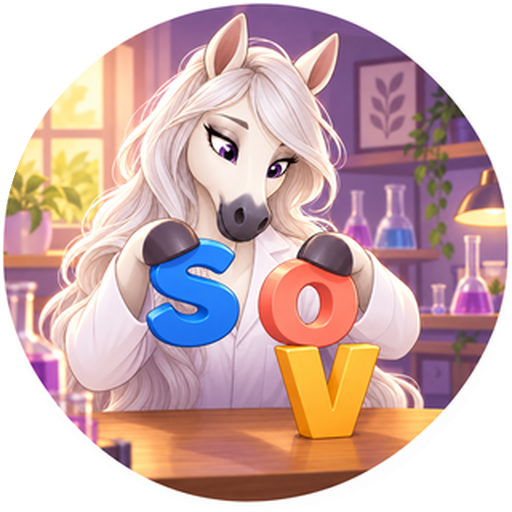
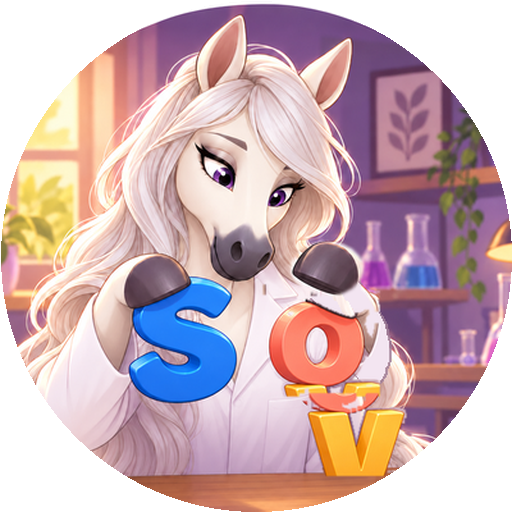
Smooth Celeste letter exchange and add blink [fast-deploy] [sentence-release]

diff --git a/sentence-structure.html b/sentence-structure.html
@@ -21,7 +21,7 @@
   <link rel="stylesheet" href="/pwa-ui.css">
   <script defer src="/pwa-register.js"></script>
   <link rel="stylesheet" href="sentence-structure.css?v=20261022-horse-login2">
-  <link rel="stylesheet" href="sentence-celeste/celeste-header.css?v=20261022-2">
+  <link rel="stylesheet" href="sentence-celeste/celeste-header.css?v=20261022-3">
   <link rel="stylesheet" href="common-expression-map.css?v=20260915-noirceleste1">
   <link rel="stylesheet" href="sentence-structure-coast.css?v=20260912-autumn1">
   <link rel="stylesheet" href="shared-system-nav.css?v=20260924-wallet1">
@@ -53,7 +53,7 @@
         </button>
       </div>
       <button class="celeste-header-mascot" type="button" data-celeste-lab-toggle aria-label="暫停 Celeste 句子結構動畫" aria-pressed="true">
-        <img src="sentence-celeste/celeste-sentence-lab.gif?v=20261022-2" width="64" height="64" alt="Celeste 穿着實驗袍，低頭用立體 S、O、V 字母實驗句子結構">
+        <img src="sentence-celeste/celeste-sentence-lab.gif?v=20261022-3" width="68" height="68" alt="Celeste 穿着實驗袍，低頭用立體 S、O、V 字母實驗句子結構，並眨眼思考">
       </button>
       <div class="header-actions edmund-system-header__actions">
         <span class="connection-pill" data-connection-status data-state="checking">正在連接</span>
@@ -343,7 +343,7 @@
   <script src="sentence-structure-config.js"></script>
   <script src="shared-system-nav.js?v=20260924-wallet1"></script>
   <script src="shared-answer-comparison.js?v=20260926-safari1"></script>
-  <script defer src="sentence-celeste/celeste-header.js?v=20261022-2"></script>
+  <script defer src="sentence-celeste/celeste-header.js?v=20261022-3"></script>
   <script defer src="speaking-system-config.js?v=20260829-1"></script>
 
   <script defer src="shared-speaking-practice.js?v=20260829-2"></script>

diff --git a/sentence-celeste/celeste-header.js b/sentence-celeste/celeste-header.js
@@ -2,9 +2,9 @@
   const button = document.querySelector('[data-celeste-lab-toggle]');
   if (!button) return;
   const image = button.querySelector('img');
-  const gif = 'sentence-celeste/celeste-sentence-lab.gif?v=20261022-2';
+  const gif = 'sentence-celeste/celeste-sentence-lab.gif?v=20261022-3';
   const stills = Array.from({ length: 5 }, (_, index) =>
-    `sentence-celeste/stills/celeste-${String(index + 1).padStart(2, '0')}.png?v=20261022-2`
+    `sentence-celeste/stills/celeste-${String(index + 1).padStart(2, '0')}.png?v=20261022-3`
   );
   const storageKey = 'edmund-sentence-celeste-playing';
   let playing = !window.matchMedia('(prefers-reduced-motion: reduce)').matches;

diff --git a/sentence-celeste/celeste-header.css b/sentence-celeste/celeste-header.css
@@ -1,8 +1,8 @@
 .celeste-header-mascot {
   display: block;
-  flex: 0 0 64px;
-  width: 64px;
-  height: 64px;
+  flex: 0 0 68px;
+  width: 68px;
+  height: 68px;
   padding: 0;
   border: 0;
   border-radius: 50%;
@@ -25,8 +25,8 @@
 
 @media (max-width: 720px) {
   .celeste-header-mascot {
-    flex-basis: 52px;
-    width: 52px;
-    height: 52px;
+    flex-basis: 56px;
+    width: 56px;
+    height: 56px;
   }
 }

diff --git a/tools/mascot-art/sentence-structure/build_celeste_lab.py b/tools/mascot-art/sentence-structure/build_celeste_lab.py
@@ -1,112 +1,211 @@
 #!/usr/bin/env python3
-"""Build Celeste's fixed-camera S–O–V laboratory header loop."""
-
+"""Render Celeste from one fixed plate, rigid letters, a moving hoof, and blink keys."""
 from __future__ import annotations
 
-import shutil
-import subprocess
-import tempfile
 from pathlib import Path
-
+import numpy as np
 from PIL import Image, ImageDraw, ImageFilter
 
-
 ROOT = Path(__file__).resolve().parents[3]
-SOURCE = ROOT / "assets" / "mascots" / "celeste-sentence-lab"
+SOURCE = ROOT / "assets/mascots/celeste-sentence-lab"
 PUBLIC = ROOT / "sentence-celeste"
 STILLS = PUBLIC / "stills"
-WORK = 320
-DELIVERY = 160
+SIZE = 400
+FPS = 25
+COUNT = 175
+CROP = (87, 0, 1167, 1080)
 
 
-def load_pose(name: str, plate: Image.Image, action_mask: Image.Image) -> Image.Image:
-    pose = Image.open(SOURCE / f"celeste-{name}.png").convert("RGB")
-    pose = pose.resize((WORK, WORK), Image.Resampling.LANCZOS)
-    return Image.composite(pose, plate, action_mask)
+def read(name):
+    return Image.open(SOURCE / f"celeste-{name}.png").convert("RGB").crop(CROP).resize(
+        (SIZE, SIZE), Image.Resampling.LANCZOS)
 
 
-def circular_alpha(image: Image.Image) -> Image.Image:
-    alpha = Image.new("L", image.size, 0)
-    draw = ImageDraw.Draw(alpha)
-    edge = image.width - 1
-    draw.ellipse((1, 1, edge, edge), fill=255)
-    image = image.convert("RGBA")
+def ease(a, b, t):
+    x = max(0.0, min(1.0, (t-a)/(b-a)))
+    return x*x*(3-2*x)
+
+
+def tween(a, b, weight):
+    return (a[0]+(b[0]-a[0])*weight, a[1]+(b[1]-a[1])*weight)
+
+
+def extract_letter(image, kind):
+    pixels = np.asarray(image, dtype=np.int16)
+    r, g, b = pixels[:,:,0], pixels[:,:,1], pixels[:,:,2]
+    yy, xx = np.mgrid[:SIZE,:SIZE]
+    if kind == "o":
+        region = (xx>=195)&(xx<=305)&(yy>=220)&(yy<=322)
+        colored = (r>130)&(r>g*1.30)&(r>b*1.26)&(g>55)
+    else:
+        region = (xx>=205)&(xx<=325)&(yy>=297)&(yy<=375)
+        colored = (r>180)&(g>125)&(r>g*1.13)&(b<145)
+    alpha = Image.fromarray(np.uint8(region & colored)*255, "L")
+    alpha = alpha.filter(ImageFilter.MaxFilter(5)).filter(ImageFilter.GaussianBlur(.7))
+    box = alpha.getbbox()
+    if not box:
+        raise RuntimeError(f"Missing {kind.upper()} cutout")
+    x0,y0,x1,y1 = box
+    box = (max(0,x0-2),max(0,y0-2),min(SIZE,x1+2),min(SIZE,y1+2))
+    sprite = image.convert("RGBA").crop(box)
+    sprite.putalpha(alpha.crop(box))
+    scale = .82 if kind=="o" else .78
+    return sprite.resize((round(sprite.width*scale),round(sprite.height*scale)),
+                         Image.Resampling.LANCZOS)
+
+
+def extract_hoof(image):
+    box = (232,209,295,259)
+    sprite = image.convert("RGBA").crop(box)
+    alpha = Image.new("L", sprite.size, 0)
+    ImageDraw.Draw(alpha).ellipse((3,2,59,43), fill=255)
+    sprite.putalpha(alpha.filter(ImageFilter.GaussianBlur(1.2)))
+    return sprite
+
+
+def blink_weight(t):
+    result = 0.0
+    for center in (.62,3.78,5.82):
+        delta = abs(t-center)
+        if delta < .16:
+            result = max(result,1-delta/.16)
+    return result
+
+
+def paste_center(image, sprite, center):
+    image.alpha_composite(sprite,(round(center[0]-sprite.width/2),
+                                  round(center[1]-sprite.height/2)))
+
+
+def arm_layer(center):
+    hx,hy = center
+    shoulder = (277.0,291.0)
+    control1 = (301.0,277.0)
+    control2 = (hx+16.0,hy+24.0)
+    points = []
+    for index in range(17):
+        t=index/16
+        u=1-t
+        x=u**3*shoulder[0]+3*u*u*t*control1[0]+3*u*t*t*control2[0]+t**3*hx
+        y=u**3*shoulder[1]+3*u*u*t*control1[1]+3*u*t*t*control2[1]+t**3*(hy+8)
+        points.append((round(x),round(y)))
+    layer=Image.new("RGBA",(SIZE,SIZE),(0,0,0,0))
+    draw=ImageDraw.Draw(layer)
+    draw.line(points, fill=(162,129,154,210),width=40,joint="curve")
+    draw.line(points, fill=(243,229,241,255),width=36,joint="curve")
+    draw.line([(x-5,y-4) for x,y in points[2:-2]],
+              fill=(255,250,252,172),width=7,joint="curve")
+    return layer
+
+
+def render(t, plate, blink, eye_mask, hoof, o_sprite, v_sprite):
+    image=plate.convert("RGBA")
+    closure=blink_weight(t)
+    if closure:
+        mask=eye_mask.point(lambda value:round(value*closure))
+        image=Image.composite(blink.convert("RGBA"),image,mask)
+    o_held,o_table=(251.0,266.0),(217.0,344.0)
+    v_table,v_held=(282.0,339.0),(282.0,258.0)
+    if t<2.15:
+        op=tween(o_held,o_table,ease(.95,2.15,t))
+    elif t<5.42:
+        op=o_table
+    else:
+        op=tween(o_table,o_held,ease(5.42,6.48,t))
+    if t<2.55:
+        vp=v_table
+    elif t<3.55:
+        vp=tween(v_table,v_held,ease(2.55,3.55,t))
+    elif t<4.18:
+        vp=v_held
+    else:
+        vp=tween(v_held,v_table,ease(4.18,5.12,t))
+    o_hoof=(op[0]+5,op[1]-o_sprite.height/2-7)
+    v_hoof=(vp[0]+5,vp[1]-v_sprite.height/2-7)
+    if t<2.15:
+        hp=o_hoof
+    elif t<2.55:
+        hp=tween(o_hoof,v_hoof,ease(2.15,2.55,t))
+    elif t<5.12:
+        hp=v_hoof
+    elif t<5.42:
+        hp=tween(v_hoof,o_hoof,ease(5.12,5.42,t))
+    else:
+        hp=o_hoof
+    shadows=Image.new("RGBA",(SIZE,SIZE),(0,0,0,0))
+    d=ImageDraw.Draw(shadows)
+    for position,amount in (
+        (op,ease(1.65,2.15,t)*(1-ease(5.42,5.95,t))),
+        (vp,(1-ease(2.55,3.05,t))+ease(4.6,5.12,t))
+    ):
+        if amount>0:
+            x=position[0]
+            d.ellipse((x-31,369,x+31,377),
+                      fill=(70,37,63,round(45*min(amount,1))))
+    image.alpha_composite(shadows.filter(ImageFilter.GaussianBlur(2.5)))
+    # One independent O and one independent V: no shape morph or duplicates.
+    image.alpha_composite(arm_layer(hp))
+    paste_center(image,o_sprite,op)
+    paste_center(image,v_sprite,vp)
+    paste_center(image,hoof,hp)
+    return image
+
+
+def circle(image):
+    alpha=Image.new("L",image.size,0)
+    ImageDraw.Draw(alpha).ellipse((1,1,image.width-1,image.height-1),fill=255)
+    image=image.convert("RGBA")
     image.putalpha(alpha)
     return image
 
 
-def main() -> None:
-    PUBLIC.mkdir(parents=True, exist_ok=True)
-    STILLS.mkdir(parents=True, exist_ok=True)
-    base = Image.open(SOURCE / "celeste-holding-o.png").convert("RGB")
-    base = base.resize((WORK, WORK), Image.Resampling.LANCZOS)
-
-    # Freeze the desk, study, face, goggles and S-holding hoof. Only the right
-    # foreleg and its two letter tiles may change between generated poses.
-    action_mask = Image.new("L", (WORK, WORK), 0)
-    ImageDraw.Draw(action_mask).polygon(
-        [(160, 151), (259, 150), (319, 194), (319, 319),
-         (121, 319), (132, 250)], fill=255
-    )
-    action_mask = action_mask.filter(ImageFilter.GaussianBlur(7))
-    names = ("holding-o", "lowering-o", "placing-o", "lifting-v", "holding-v")
-    poses = [base] + [load_pose(name, base, action_mask) for name in names[1:]]
-
-    for index, pose in enumerate(poses, 1):
-        circular_alpha(pose.resize((256, 256), Image.Resampling.LANCZOS)).save(
-            STILLS / f"celeste-{index:02d}.png", optimize=True
-        )
-    circular_alpha(poses[0].resize((512, 512), Image.Resampling.LANCZOS)).save(
-        PUBLIC / "celeste-sentence-lab-poster.png", optimize=True
-    )
-
-    # Deliberate holds make the educational exchange readable: O goes down,
-    # the hoof contacts V, V rises, then the gesture reverses for a clean loop.
-    sequence = ([0] * 7 + [1] * 2 + [2] * 3 + [3] * 2 + [4] * 8
-                + [3] * 2 + [2] * 3 + [1] * 2 + [0] * 7)
-    with tempfile.TemporaryDirectory(prefix="celeste-lab-") as temporary:
-        temp = Path(temporary)
-        inputs = temp / "inputs"
-        output = temp / "frames"
-        inputs.mkdir()
-        output.mkdir()
-        for index, pose_id in enumerate(sequence):
-            poses[pose_id].save(inputs / f"{index:04d}.png")
-        command = [
-            shutil.which("ffmpeg") or "ffmpeg", "-hide_banner", "-loglevel", "error",
-            "-framerate", "8", "-i", str(inputs / "%04d.png"),
-            "-vf", "minterpolate=fps=25:mi_mode=mci:mc_mode=aobmc:me_mode=bidir:vsbmc=1",
-            str(output / "%04d.png"),
-        ]
-        subprocess.run(command, check=True)
-        frame_paths = sorted(output.glob("*.png"))
-        frames = [circular_alpha(Image.open(path).convert("RGB").resize(
-            (DELIVERY, DELIVERY), Image.Resampling.LANCZOS)) for path in frame_paths]
-
-    # One shared palette avoids color shimmer while the background remains fixed.
-    palette = frames[0].convert("RGB").quantize(colors=255, method=Image.Quantize.MEDIANCUT)
-    colors = [255, 0, 255] + palette.getpalette()[:765]
-    colors += [0] * (768 - len(colors))
-    ready = []
+def gif_frames(frames):
+    palette=frames[0].convert("RGB").quantize(colors=255,method=Image.Quantize.MEDIANCUT)
+    colors=[255,0,255]+palette.getpalette()[:765]
+    colors += [0]*(768-len(colors))
+    result=[]
     for frame in frames:
-        indexed = frame.convert("RGB").quantize(palette=palette, dither=Image.Dither.NONE)
-        source = indexed.load()
-        alpha = frame.getchannel("A").load()
-        result = Image.new("P", frame.size, 0)
-        result.putpalette(colors)
-        target = result.load()
-        for y in range(frame.height):
-            for x in range(frame.width):
-                target[x, y] = source[x, y] + 1 if alpha[x, y] >= 128 else 0
-        result.info["transparency"] = 0
-        ready.append(result)
-    ready[0].save(
-        PUBLIC / "celeste-sentence-lab.gif", save_all=True,
-        append_images=ready[1:], duration=40, loop=0,
-        transparency=0, disposal=2, optimize=False,
-    )
-    print(f"Rendered {len(ready)} frames, five stills and poster")
+        indexes=np.asarray(frame.convert("RGB").quantize(
+            palette=palette,dither=Image.Dither.NONE),dtype=np.uint16)
+        alpha=np.asarray(frame.getchannel("A"))
+        values=np.where(alpha>=128,indexes+1,0).astype(np.uint8)
+        item=Image.fromarray(values,"P")
+        item.putpalette(colors)
+        item.info["transparency"]=0
+        result.append(item)
+    return result
 
 
-if __name__ == "__main__":
+def main():
+    PUBLIC.mkdir(parents=True,exist_ok=True)
+    STILLS.mkdir(parents=True,exist_ok=True)
+    plate=read("clean-plate")
+    blink=read("blink")
+    master=read("holding-o")
+    empty=read("empty-hoof")
+    eye_mask=Image.new("L",(SIZE,SIZE),0)
+    draw=ImageDraw.Draw(eye_mask)
+    draw.ellipse((142,99,207,148),fill=255)
+    draw.ellipse((199,113,247,166),fill=255)
+    eye_mask=eye_mask.filter(ImageFilter.GaussianBlur(2))
+    hoof=extract_hoof(empty)
+    letter_o=extract_letter(master,"o")
+    letter_v=extract_letter(master,"v")
+    frames=[render(n/FPS,plate,blink,eye_mask,hoof,letter_o,letter_v)
+            for n in range(COUNT)]
+    for number,index in enumerate((10,42,57,76,97),1):
+        circle(frames[index].resize((256,256),Image.Resampling.LANCZOS)).save(
+            STILLS/f"celeste-{number:02d}.png",optimize=True)
+    circle(frames[10].resize((512,512),Image.Resampling.LANCZOS)).save(
+        PUBLIC/"celeste-sentence-lab-poster.png",optimize=True)
+    small=[circle(frame.resize((160,160),Image.Resampling.LANCZOS))
+           for frame in frames]
+    gif=gif_frames(small)
+    gif[0].save(PUBLIC/"celeste-sentence-lab.gif",save_all=True,
+                append_images=gif[1:],duration=40,loop=0,
+                transparency=0,disposal=2,optimize=False)
+    print(f"Rendered {len(gif)} rigid-object frames with three blinks")
+
+
+if __name__=="__main__":
     main()
